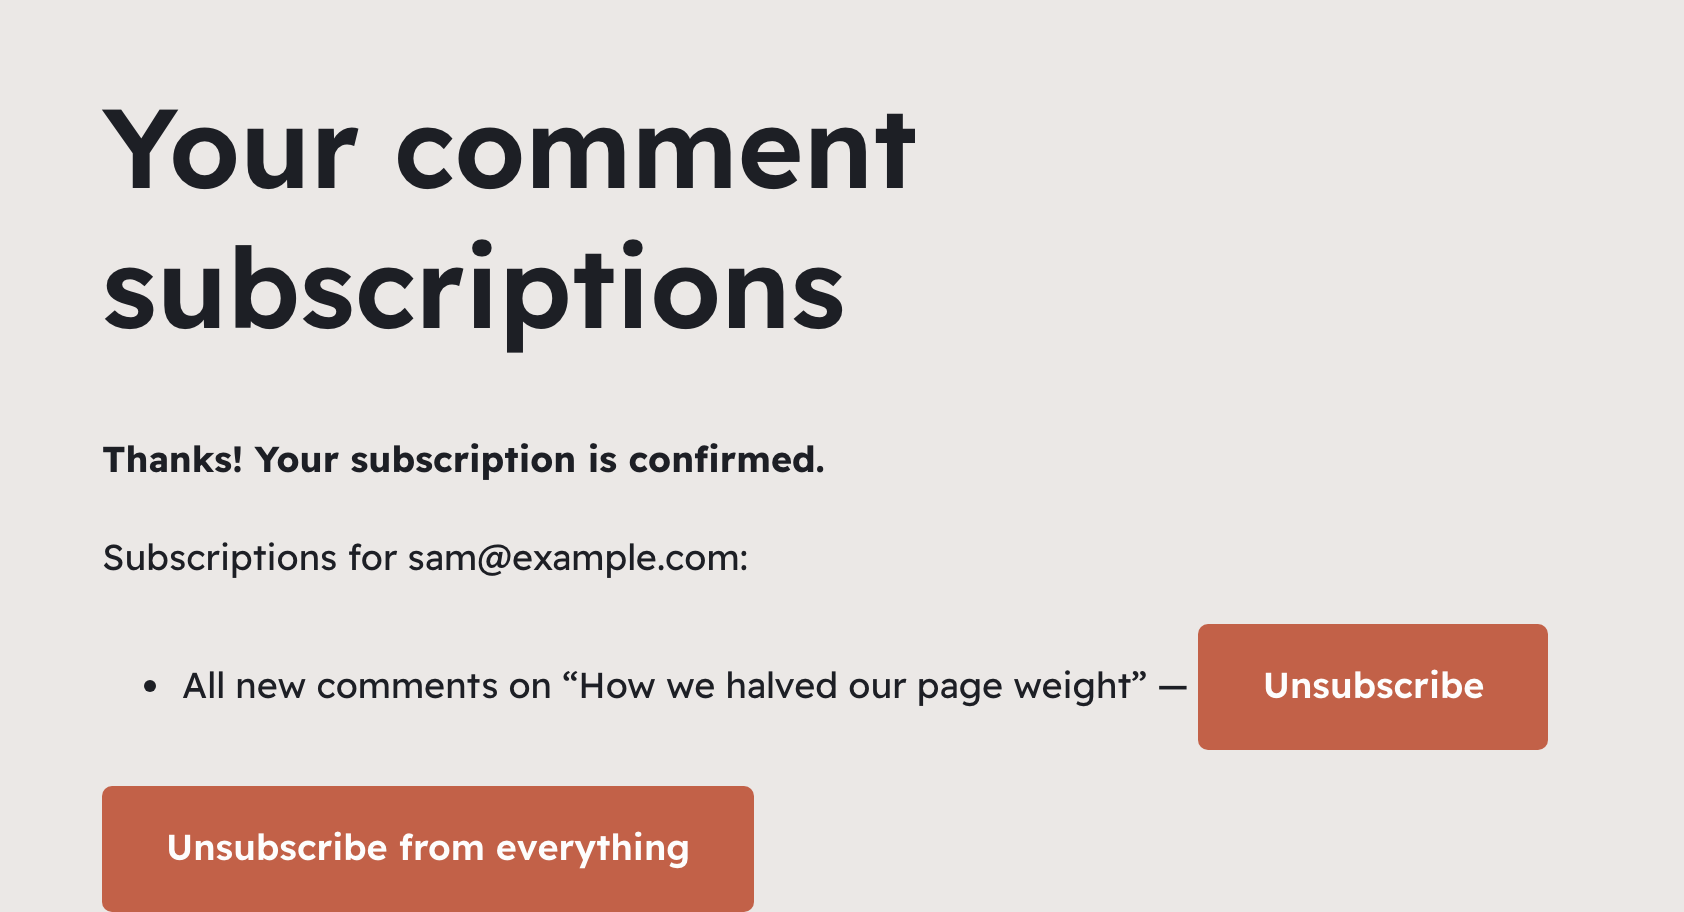
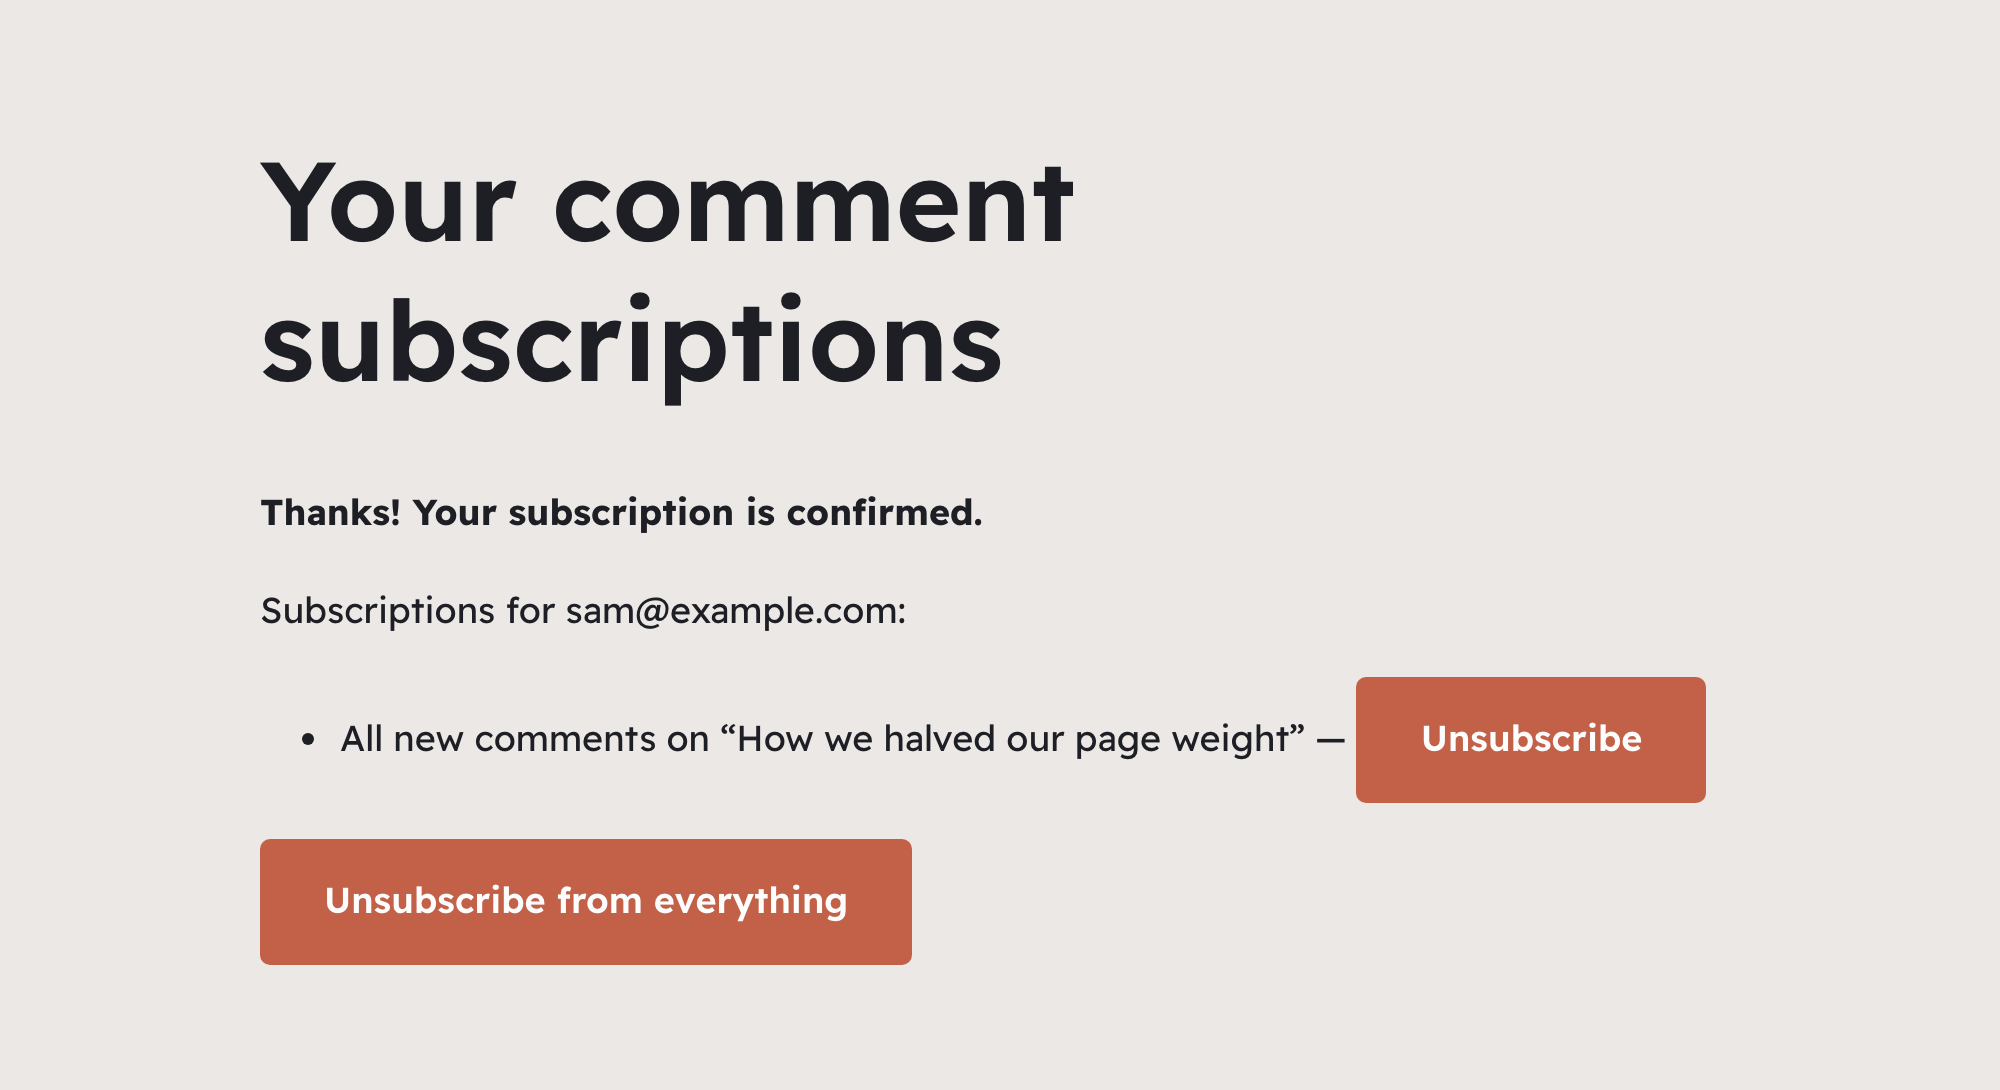
WordPress.org screenshot 6: wider, with space around the content
The spec captures the page title and list with 64px of the theme's
background around them at 1280px, and clears the address's earlier
subscriptions first (new e2e route reset-subscriptions), so repeated runs
list it once.

Changed region(s): [[0.0618, 0.5526, 0.9264, 1.0], [0.0618, 0.1228, 0.5558, 0.3991], [0.0618, 0.4605, 0.4941, 0.5219]]

diff --git a/tests/e2e/wporg/assets.spec.js b/tests/e2e/wporg/assets.spec.js
@@ -390,14 +390,19 @@ test.describe( 'WordPress.org assets', () => {
 			method: 'DELETE',
 			path: '/convocept-e2e/v1/mails',
 		} );
-		// Subscribing again to the same scope reuses the subscription, so a fixed address is fine.
+		// Earlier runs' subscriptions would be listed too, so start clean.
 		const address = 'sam@example.com';
+		await requestUtils.rest( {
+			method: 'POST',
+			path: '/convocept-e2e/v1/reset-subscriptions',
+			data: { email: address },
+		} );
 		const post = await requestUtils.createPost( {
 			title: 'How we halved our page weight',
 			status: 'publish',
 		} );
 		const { page, context } = await openAsGuest( browser, post.link, {
-			viewport: { width: 900, height: 900 },
+			viewport: { width: 1280, height: 900 },
 		} );
 
 		await page.getByRole( 'button', { name: 'Follow' } ).click();
@@ -428,8 +433,36 @@ test.describe( 'WordPress.org assets', () => {
 			page.locator( '.convocept-subscriptions' )
 		).toContainText( 'confirmed' );
 
-		// 6. Include the page title above the list.
-		await capture( page.locator( 'main' ), 'screenshot-6.png' );
+		// 6. The page title and the list, with the theme's background around them.
+		const box = await page.evaluate( () => {
+			const title = document.querySelector( 'main h1' );
+			const list = document.querySelector( '.convocept-subscriptions' );
+			const top = title.getBoundingClientRect();
+			const bottom = list.getBoundingClientRect();
+			const left = Math.min( top.left, bottom.left );
+
+			return {
+				x: left,
+				y: top.top + window.scrollY,
+				width: Math.max( top.right, bottom.right ) - left,
+				height: bottom.bottom - top.top,
+			};
+		} );
+		const pad = 64;
+		const width = Math.max( box.width + pad * 2, 1000 );
+		const x = Math.max( 0, box.x - ( width - box.width ) / 2 );
+
+		await page.screenshot( {
+			path: path.join( OUT, 'screenshot-6.png' ),
+			animations: 'disabled',
+			fullPage: true,
+			clip: {
+				x,
+				y: Math.max( 0, box.y - pad ),
+				width,
+				height: box.height + pad * 2,
+			},
+		} );
 		await context.close();
 	} );
 } );

diff --git a/tests/e2e/mu-plugins/convocept-e2e.php b/tests/e2e/mu-plugins/convocept-e2e.php
@@ -151,6 +151,28 @@ add_action(
 			)
 		);
 
+		// Deletes one address's subscriptions, so a run can subscribe it afresh.
+		register_rest_route(
+			'convocept-e2e/v1',
+			'/reset-subscriptions',
+			array(
+				'methods'             => 'POST',
+				'permission_callback' => $admin,
+				'callback'            => static function ( WP_REST_Request $request ) {
+					global $wpdb;
+
+					// phpcs:ignore WordPress.DB.DirectDatabaseQuery.DirectQuery, WordPress.DB.DirectDatabaseQuery.NoCaching -- Test-only cleanup of a custom table.
+					$wpdb->delete(
+						\Convocept\Database\Migrations\SubscriptionsTable::name(),
+						array( 'email' => sanitize_email( (string) $request->get_param( 'email' ) ) ),
+						array( '%s' )
+					);
+
+					return true;
+				},
+			)
+		);
+
 		// Cancels any import left over from an earlier (failed) test run.
 		register_rest_route(
 			'convocept-e2e/v1',
